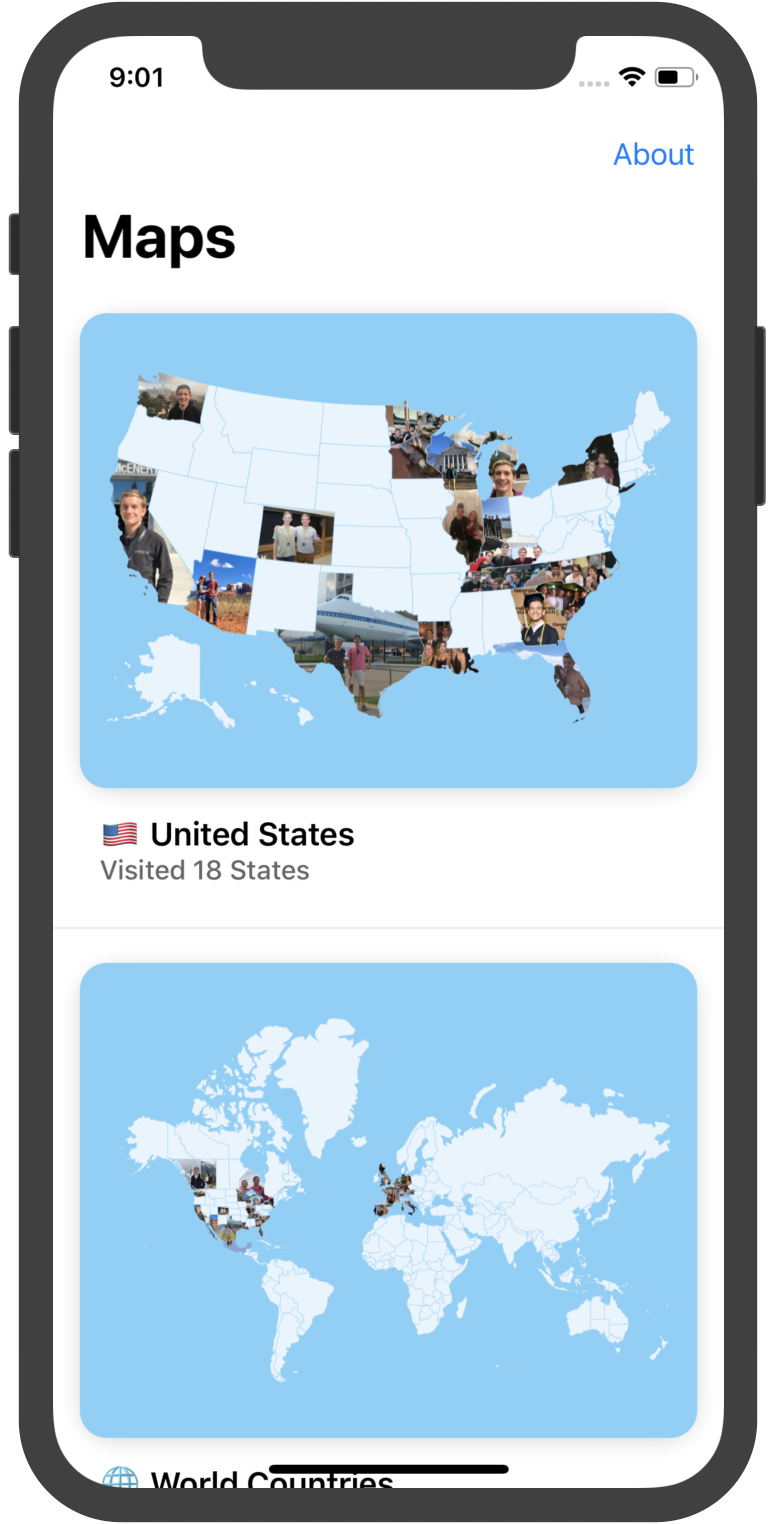
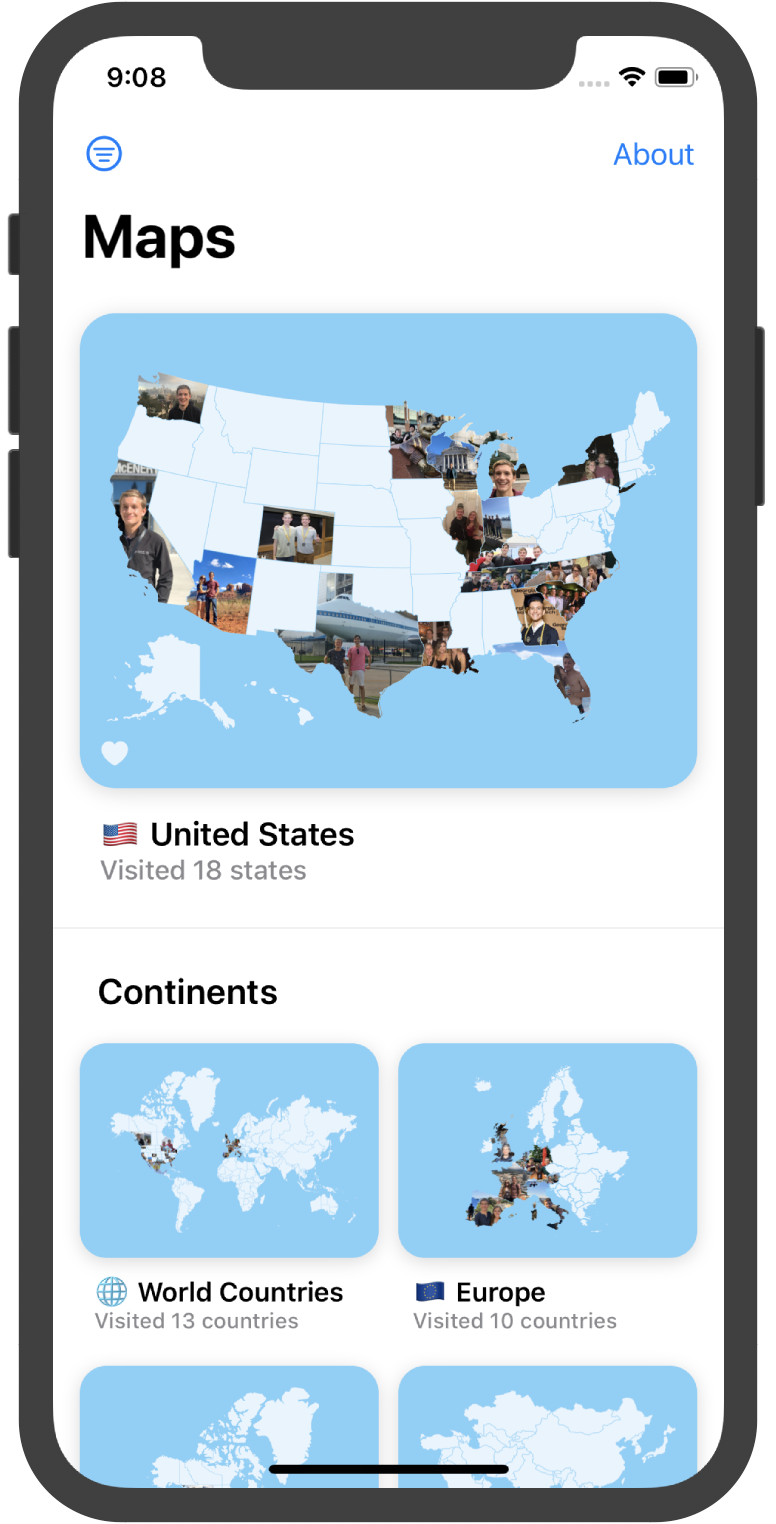
Add a blog post for Photo Map 1.2

diff --git a/_posts/2019-10-08-announcing-photo-map-1-2.md b/_posts/2019-10-08-announcing-photo-map-1-2.md
@@ -1,0 +1,123 @@
+---
+layout: post
+title: 'Announcing Photo Map 1.2'
+post-id: announcing-photo-map-1-2
+thumbnail: thumbnail.png
+photoswipe: true
+tags: 
+  - Apps
+
+header:
+  - src: maps.png
+    maxres: 776 × 1524
+    caption: "The new layout for Photo Map's Map List"
+  - src: countries.png
+    maxres: 776 × 1524
+    caption: "Some of the new countries maps available in Photo Map 1.2"
+  - src: states.png
+    maxres: 776 × 1524
+    caption: "Maps for all 50 of the US States are now available in Photo Map 1.2!"
+
+countries:
+  - src: all-countries.png
+    maxres: 1366 × 977
+    caption: "All of the countries available in Photo Map 1.2"
+    
+states:
+  - src: all-states.png
+    maxres: 1366 × 977
+    caption: "Maps for all 50 of the US States are now available in Photo Map 1.2!"
+    
+search:
+  - src: maps.png
+    maxres: 776 × 1524
+    caption: "The new layout for Photo Map's Map List"
+  - src: custom-sorting.png
+    maxres: 776 × 1524
+    caption: "The Map List is now highly customizable"
+  - src: search.png
+    maxres: 776 × 1524
+    caption: "Photo Map's new Search Flow"
+    
+explorer-pack:
+  - src: china.png
+    maxres: 776 × 1524
+    caption: "Users in China now get the Asia map for free"
+  - src: brazil.png
+    maxres: 776 × 1524
+    caption: "Users in Brail now get the South America map for free"
+    
+ios13:
+  - src: dark-us.png
+    maxres: 776 × 1524
+    caption: "The United States map in Dark Mode"
+  - src: dark-context-menu.png
+    maxres: 776 × 1524
+    caption: "A context menu on top of the Europe map"
+  - src: dark-about.png
+    maxres: 776 × 1524
+    caption: "The About screen, using iOS 13's design language"
+    
+hero:
+  - src: thumbnail.png
+    maxres: 1500 × 844
+    
+    
+---
+
+**Photo Map 1.2** is now [available to download](https://apps.apple.com/us/app/photo-map-us-europe-more/id1472276407#?platform=iphone) on the App Store! This is a packed update that includes over 80 new maps, great new features, and a rethought business model based on feedback from the [launch](/blog/announcing-photo-map) back in August.
+
+<div style="padding-top:20px; padding-bottom:20px;">
+{% include photoswipe.html images=page.header max-height=400 %}
+</div>
+
+<!--break-->
+
+<h3>Maps for 31 new countries</h3>
+
+{% include photoswipe.html images=page.countries max-height=450 class='shadow' %}
+
+When I [launched Photo Map](/blog/announcing-photo-map), it only included maps for three countires: the United States, Canada, and Australia. I picked them because they're fairly large countires with large sub-regions. After all, US States are about the size of [whole European countries](https://twentytwowords.com/map-of-u-s-states-transposed-onto-similar-european-countries-to-give-a-sense-of-size/). Photo Map really struck a chord with a lot of users from around the world, though, who wanted to be able to use it with their own home country. 
+
+I was linked to a [GitHub repo](https://github.com/deldersveld/topojson) with TopoJSON files for the sub-regions of <i>dozens</i> of World Countries. I just had to slice and dice the data with [Mapshaper](https://mapshaper.org) to turn it into the GeoJSON format that Photo Map uses. Thanks to these great tools, Photo Map now has maps for <i><b>34 countries</b></i> from around the world. This includes highlights like China, Brazil, India, Mexico, France, and Germany, but there are plenty of others for you to enjoy as well.
+
+<h3>Maps for the 50 US States</h3>
+
+{% include photoswipe.html images=page.states max-height=450 class='shadow' %}
+
+I was soliciting country requests on Twitter, and my friend [Logan](https://twitter.com/loganjmcelroy) cheekily requested support for the Counties of Georgia. The [TopoJSON repo](https://github.com/deldersveld/topojson) I was using happened to also have [counties data](https://github.com/deldersveld/topojson/tree/master/countries/us-states) for all 50 of the US States, so I couldn't resist. All content is good content! *(The hardest part with this was actually trying to choose a unique emoji for each of the 50 states. It wasn't easy!)*
+
+<blockquote class="twitter-tweet tw-align-center"><p lang="en" dir="ltr">You should add county maps for people who DONT travel that much. Let me see my photos in Richmond county, Clarke county, Dekalb county, you know, the good stuff</p>&mdash; L🕸G🕷N M🦇E🔪R💀Y (@loganjmcelroy) <a href="https://twitter.com/loganjmcelroy/status/1176937787829800960?ref_src=twsrc%5Etfw">September 25, 2019</a></blockquote> <script async src="https://platform.twitter.com/widgets.js" charset="utf-8"></script>
+<br>
+
+<h3>Redesigned Map List with Search</h3>
+
+<div style="padding-top:20px; padding-bottom:20px;">
+{% include photoswipe.html images=page.search max-height=400 %}
+</div>
+
+Photo Map 1.0 only included 8 maps, so the Map List could afford to be fairly simple. Photo Map 1.2 now includes ***over 90 maps***, so the old layout wasn't cutting it anymore. I reworked the Map List to use a two-column layout and group the maps into categories (currently *"Continents"*, *"Countries"*, and *"US States"*). You can set Favorite maps that always appear at the top, and you can pick between several different options for sorting the growing list of maps. If you want to pull up a specific map, you can also now search for it by name.
+
+<h3>Updates to the Explorer Pack</h3>
+
+In Photo Map 1.0, all users got the United States map for free. This was definitely not the greatest strategy for non-US users, who were basically unable to use Photo Map at all if they hadn't been to the US before. I've re-worked it a bit in Photo Map 1.2, and now users get a free map that's more tailored to their home country.
+
+<div style="padding-top:20px; padding-bottom:20px;">
+{% include photoswipe.html images=page.explorer-pack max-height=400 %}
+</div>
+
+Users from the US will continue to get the United States map for free, but users from other countries will now get their *home continent* for free. Photo Map also highlights some specific Explorer Pack maps that the user may find interesting, such as the map for their home country, their most-visited continent, etc. I'm hoping that these new changes will help make the app feel less US-centric (a common complaint on the App Store reviews) while also helping to increase conversion for the Explorer Pack.
+
+<h3>Great iOS 13 Support</h3>
+
+<div style="padding-top:20px; padding-bottom:20px;">
+{% include photoswipe.html images=page.ios13 max-height=400 %}
+</div>
+
+Photo Map also now has great support for the new features introduced in iOS 13. Photo Map 1.1 added support for Dark Mode and Context Menus throughout the app, and takes advantage of the system's new design language. 
+
+<h3>Downloading Photo Map</h3>
+
+Photo Map is available to download on the [**App Store**](https://apps.apple.com/us/app/photo-map-us-europe-more/id1472276407#?platform=iphone) for iPhone and iPad!
+
+{% include youtube-square.html url='https://www.youtube.com/embed/g_UxefWrT3o' %}
